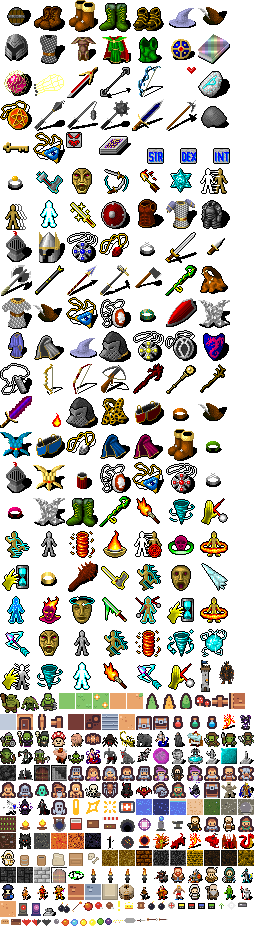
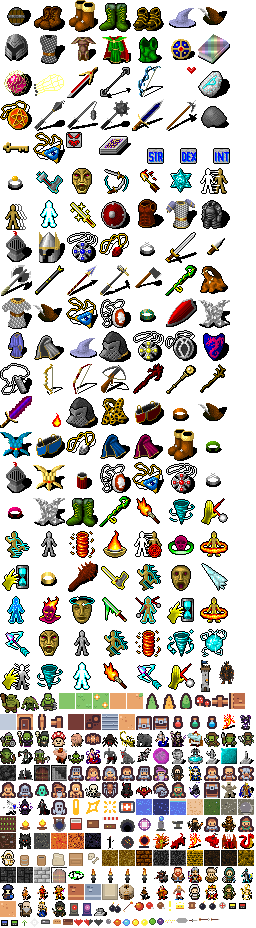
Важные люди — ИИ-арты: старейшины-князья, Радогост, Мирослава и другие
- Старейшины — король с короной; Радогост-отшельник — дед с косой
  (свой спрайт вместо npc_wizard), Мирослава — королева в синем
- Синий маг (npc_wizard/Богумил), верховная жрица, командир севера,
  кузнец с раскалённым клинком, охотник, трактирщик с кружкой
- Плут в капюшоне -> npc_darkscout (Наводчик Тьмы для будущей кампании)
- Лич -> некромант (враг)

diff --git a/tools/convert-ai.js b/tools/convert-ai.js
@@ -31,7 +31,7 @@ const MAP = {
   'ChatGPT Image 8 июл. 2026 г., 14_05_03 (9).png': { name: 'enemy_ogre', w: 18, h: 18 },
   // ═══ жители ═══
   'ChatGPT Image 8 июл. 2026 г., 14_07_16 (1).png': 'npc_villager_sev',
-  'ChatGPT Image 8 июл. 2026 г., 14_07_16 (2).png': 'npc_elder2',
+  'ChatGPT Image 8 июл. 2026 г., 14_07_16 (2).png': 'npc_hermit', // дед с косой — отшельник Радогост
   'ChatGPT Image 8 июл. 2026 г., 14_07_16 (3).png': 'npc_smith',
   'ChatGPT Image 8 июл. 2026 г., 14_07_16 (4).png': 'npc_merchant_sev',
   'ChatGPT Image 8 июл. 2026 г., 14_07_16 (5).png': 'npc_villager_oz',
@@ -53,6 +53,17 @@ const MAP = {
   'ChatGPT Image 8 июл. 2026 г., 16_59_55 (8).png': 'enemy_dark_knight',
   'ChatGPT Image 8 июл. 2026 г., 16_59_57 (9).png': 'enemy_spore',
   'ChatGPT Image 8 июл. 2026 г., 16_59_58 (10).png': { name: 'enemy_iron_troll', w: 18, h: 18 },
+  // ═══ важные люди ═══
+  'ChatGPT Image 8 июл. 2026 г., 17_18_00 (1).png': 'npc_elder2',       // король-старейшина
+  'ChatGPT Image 8 июл. 2026 г., 17_18_00 (2).png': 'npc_wanderer',     // Мирослава в синем
+  'ChatGPT Image 8 июл. 2026 г., 17_18_01 (3).png': 'npc_wizard',       // синий маг
+  'ChatGPT Image 8 июл. 2026 г., 17_18_01 (4).png': 'npc_priest2',      // верховная жрица
+  'ChatGPT Image 8 июл. 2026 г., 17_18_02 (5).png': 'npc_guard_sev',    // командир севера
+  'ChatGPT Image 8 июл. 2026 г., 17_18_02 (6).png': 'npc_smith',        // кузнец с клинком
+  'ChatGPT Image 8 июл. 2026 г., 17_18_02 (7).png': 'npc_darkscout',    // плут-наводчик (кампания)
+  'ChatGPT Image 8 июл. 2026 г., 17_18_03 (8).png': 'npc_hunter2',      // охотник с луком
+  'ChatGPT Image 8 июл. 2026 г., 17_18_03 (9).png': 'enemy_necromancer',// лич
+  'ChatGPT Image 8 июл. 2026 г., 17_18_03 (10).png': 'npc_innkeeper',   // трактирщик
 };
 
 function isMagenta(r, g, b) { return r > 150 && b > 150 && g < Math.min(r, b) - 40; }

diff --git a/server/game.js b/server/game.js
@@ -1420,7 +1420,7 @@ export class Game {
       const alive = poi.npcId && this.entities.has(poi.npcId);
       if (near && !alive) {
         poi.npcId = this.spawnNpc(role, poi.id, 'over', cx + 8, cy + 28, {
-          kind: 'npc_wizard',
+          kind: role === 'hermit' ? 'npc_hermit' : 'npc_wanderer',
         });
         const n = this.entities.get(poi.npcId);
         n.name = role === 'hermit' ? 'Радогост' : 'Мирослава';